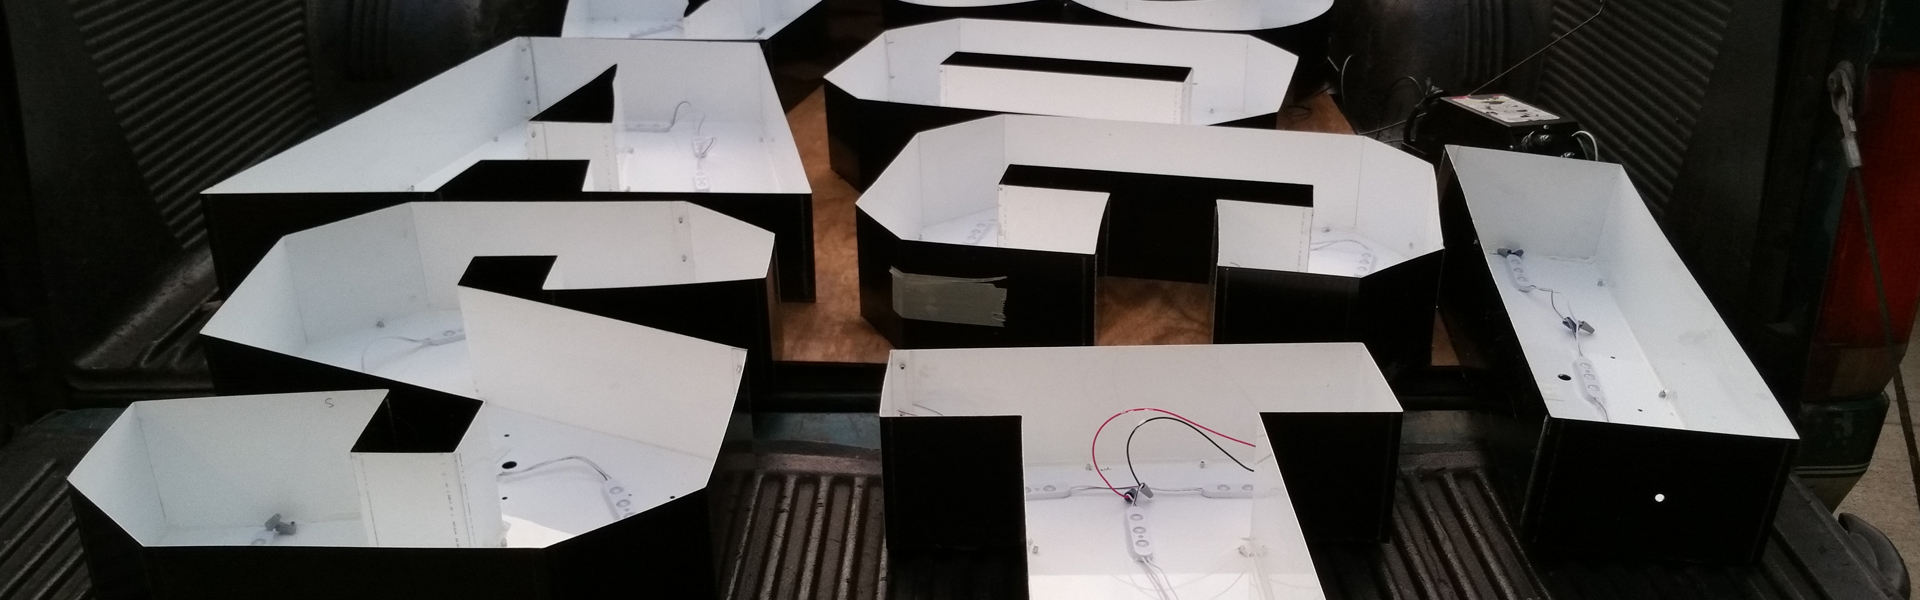
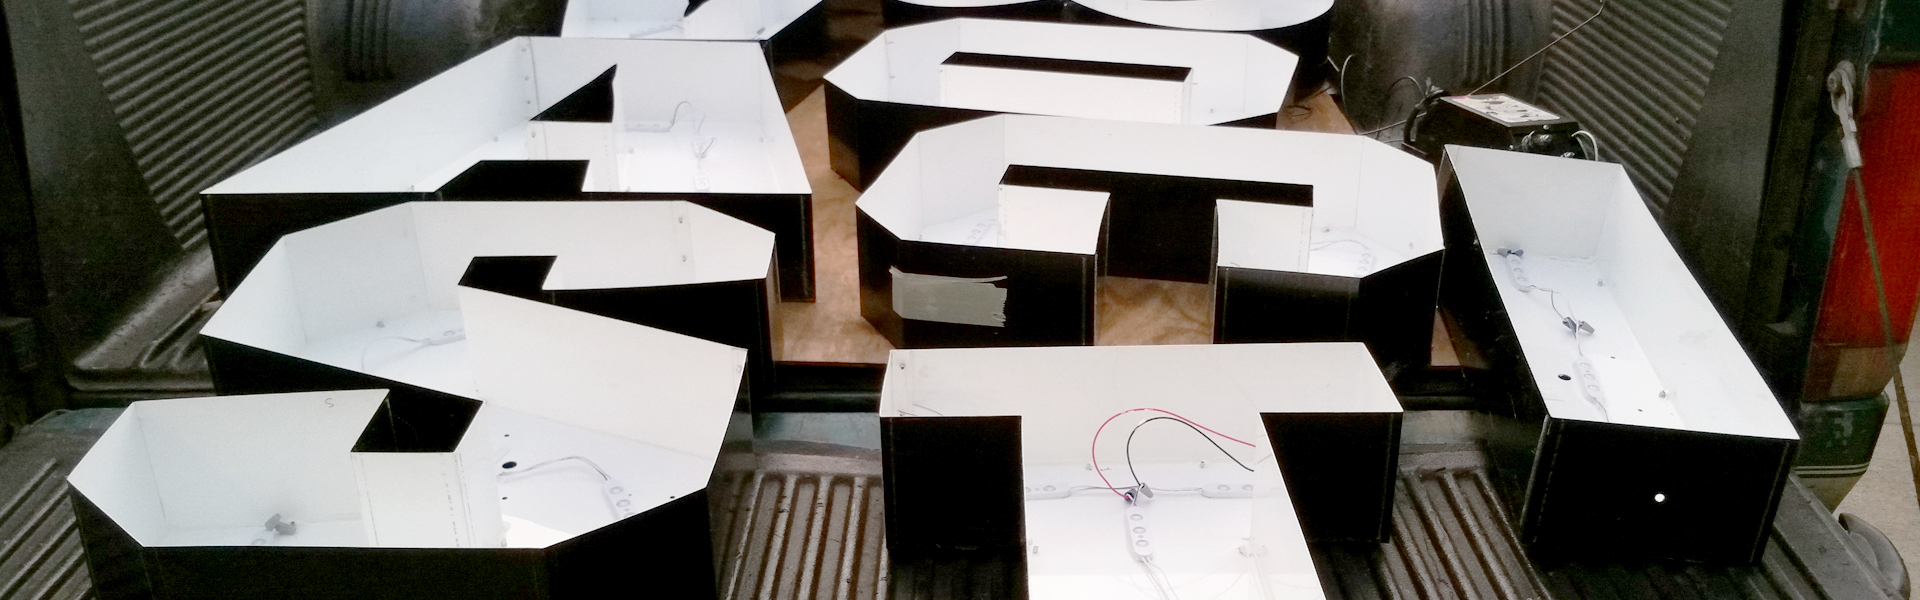
Update slider images with hi-res pics

diff --git a/home.php b/home.php
@@ -32,7 +32,7 @@
 			<!-- SLIDE 2 -->
 			<li data-transition="fade" data-masterspeed="500" data-slotamount="1" data-delay="6000">
 				<!-- MAIN IMAGE -->
-				<img src="images/slider/eco-estate.jpg" alt="slidebg2" data-bgfit="cover">
+				<img src="images/slider/cabinet-1.jpg" alt="slidebg2" data-bgfit="cover">
 				<!-- LAYERS -->
 				<!-- LAYER 01 -->
 				<div class="tp-caption customin customout"
@@ -59,7 +59,7 @@
 			<!-- SLIDE 3 -->
 			<li data-transition="fade" data-masterspeed="500" data-slotamount="1" data-delay="6000">
 				<!-- MAIN IMAGE -->
-				<img src="images/slider/bradshaw.jpg" alt="slidebg3" data-bgfit="cover">
+				<img src="images/slider/channel-2.jpg" alt="slidebg3" data-bgfit="cover">
 				<!-- LAYERS -->
 				<!-- LAYER 01 -->
 				<div class="tp-caption customin customout"
